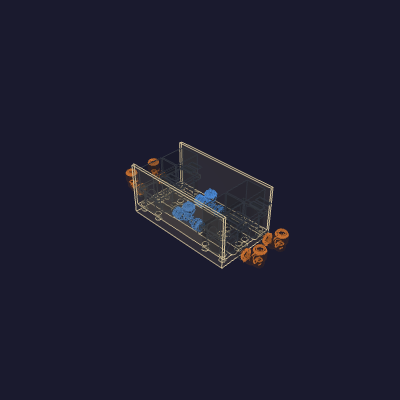
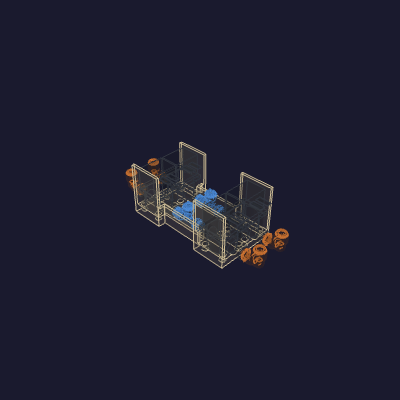
bag-circuit tray: pinch the center like source-select
Apply the source-select treatment to the bag-circuit tray. The two valve
columns keep a full-width floor and full-height ±Y walls (the stacking surface);
the central Tee region pinches in to a narrow bridge that hugs the two Tees, with
short walls that just clear the Tee runs, joined to the columns by short
connecting walls. Floor reduced to follow the walls. Valves aren't tilted here,
so the walls are straight rather than slanted, but the structure mirrors
source-select.

Refactored the shared cradle/groove cuts into _cut_cradles so build_tray
(bib/nozzle, unchanged) and the new dog-bone build_bag_circuit_tray share them.
One solid, 0 mm³ body clashes, all 16 sockets ringed; bib/nozzle trays
byte-identical.

Changed region(s): [[0.39, 0.39, 0.63, 0.63]]

diff --git a/hardware/printed-parts/valve-manifold/bag-circuit-tray/bag_circuit_tray.py b/hardware/printed-parts/valve-manifold/bag-circuit-tray/bag_circuit_tray.py
@@ -141,12 +141,9 @@ def _box(x0, x1, y_half, z0, z1):
     )
 
 
-def build_tray(valve_centers, connectors, plate_x, plate_y_half):
-    """Solid frame plate spanning ``plate_x`` (lo, hi), with a four-socket
-    cradle and port saddle per valve, a groove per connector, and two ±Y
-    stacking walls."""
-    tray = _box(plate_x[0], plate_x[1], plate_y_half, bot_z, top_z)
-
+def _cut_cradles(tray, valve_centers, connectors):
+    """Cut a four-socket cradle and a port saddle per valve, plus a groove per
+    connector, into ``tray``."""
     for vx, vy in valve_centers:
         for sx in (-1.0, 1.0):
             for sy in (-1.0, 1.0):
@@ -173,7 +170,15 @@ def build_tray(valve_centers, connectors, plate_x, plate_y_half):
             cq.Vector(1.0, 0.0, 0.0),
         )
         tray = tray.cut(cq.Workplane(obj=groove))
+    return tray
 
+
+def build_tray(valve_centers, connectors, plate_x, plate_y_half):
+    """Solid frame plate spanning ``plate_x`` (lo, hi), with a four-socket
+    cradle and port saddle per valve, a groove per connector, and two ±Y
+    stacking walls."""
+    tray = _box(plate_x[0], plate_x[1], plate_y_half, bot_z, top_z)
+    tray = _cut_cradles(tray, valve_centers, connectors)
     for sy in (+1.0, -1.0):
         wall = _box(plate_x[0], plate_x[1], wall_thickness / 2.0, bot_z, wall_top_z)
         tray = tray.union(wall.translate((0.0, sy * (plate_y_half - wall_thickness / 2.0), 0.0)))
@@ -186,13 +191,39 @@ def tee_grooves(tee_centers):
     return [(cx, cy, 2.0 * tee_run_half, tee_groove_radius) for cx, cy in tee_centers]
 
 
+# --- Bag-circuit dog-bone: the tray pinches in the center -----------------
+# Full-width floor + full-height walls hug the two valve columns; a narrow
+# central bridge hugs the two Tees between them with short walls that just clear
+# the Tee runs, joined to the columns by short connecting walls.
+bc_x_split = valve_x - valve_pad                       # column/bridge boundary (inner-socket support)
+bc_hug_half_y = row_half + tee_groove_radius + wall_clear + wall_thickness  # bridge half-width
+bc_hug_wall_top_z = port_z + tee_radius + 2.0          # short central walls just clear the Tee runs
+bc_col_inner = bc_x_split - margin                     # columns reach inboard, under the connecting walls
+
+
 def build_bag_circuit_tray():
-    return build_tray(
-        list(valves.values()),
-        tee_grooves(tees.values()),
-        (-plate_half_x, plate_half_x),
-        plate_half_y,
-    )
+    tray = _box(-bc_x_split, bc_x_split, bc_hug_half_y, bot_z, top_z)                 # central Tee bridge
+    tray = tray.union(_box(bc_col_inner, plate_half_x, plate_half_y, bot_z, top_z))   # +X valve column
+    tray = tray.union(_box(-plate_half_x, -bc_col_inner, plate_half_y, bot_z, top_z)) # −X valve column
+    tray = _cut_cradles(tray, list(valves.values()), tee_grooves(tees.values()))
+
+    for sy in (+1.0, -1.0):
+        y_col = sy * (plate_half_y - wall_thickness / 2.0)
+        y_hug = sy * (bc_hug_half_y - wall_thickness / 2.0)
+        # full-height column walls (carry the stack pitch) + short central wall
+        tray = tray.union(_box(bc_col_inner, plate_half_x, wall_thickness / 2.0, bot_z, wall_top_z).translate((0.0, y_col, 0.0)))
+        tray = tray.union(_box(-plate_half_x, -bc_col_inner, wall_thickness / 2.0, bot_z, wall_top_z).translate((0.0, y_col, 0.0)))
+        tray = tray.union(_box(-bc_x_split, bc_x_split, wall_thickness / 2.0, bot_z, bc_hug_wall_top_z).translate((0.0, y_hug, 0.0)))
+        # connecting walls bridge the pinch from each short-wall end to its column wall
+        for sx in (+1.0, -1.0):
+            x0, x1 = sorted((sx * bc_col_inner, sx * bc_x_split))
+            y0, y1 = sorted((sy * (bc_hug_half_y - wall_thickness), sy * plate_half_y))
+            tray = tray.union(
+                cq.Workplane("XY")
+                .box(x1 - x0, y1 - y0, bc_hug_wall_top_z - bot_z, centered=(False, False, False))
+                .translate((x0, y0, bot_z))
+            )
+    return tray
 
 
 def main():

diff --git a/hardware/printed-parts/valve-manifold/bag-circuit-tray/README.md b/hardware/printed-parts/valve-manifold/bag-circuit-tray/README.md
@@ -17,7 +17,8 @@ V-F over V-I on the −X side, V-E over V-H on the +X side. Each row's two valve
 connect **in-line through a Tee** ([reference](/hardware/reference/tee-connector/README.md))
 whose run lies along X, so the inner ports meet the run ports straight-on (no
 jog) with the valves at X = ±[49.57](VALVE_X). Each Tee's **branch rises (+Z)** to its
-bag; the valves' outer ports leave the tray to the pumps.
+bag; the valves' outer ports leave the tray to the pumps, an **elbow** turning
+each +Z up out of the tray.
 
 This module also holds the shared parallel-Tee base (`place_valve`,
 `place_tee`, `build_tray`, common geometry) that the gate-tray variants
@@ -25,15 +26,18 @@ This module also holds the shared parallel-Tee base (`place_valve`,
 they are all-Tee too. Only source-select still uses Y-dividers.
 
 Origin = cell center, Z = 0 the valve mounting plane, ports at Z = [11.3](PORT_Z). The
-six bodies are clash-free.
+six valve/Tee bodies are clash-free.
 
 ## The tray
 
-A frame plate (Z [-3](TRAY_BOT_Z) → [6](TRAY_TOP_Z)), **[137](BAG_PLATE_W) × [74](BAG_PLATE_D) × [63](STACK_PITCH) mm**, with a **solid floor**. Each
-valve drops into four corner sockets and a port saddle along X; each **Tee run
-sets into a groove** cut into the floor at port height (the floor stays solid
-beneath it). Two **side walls** (±Y) rise to Z = [60](WALL_TOP_Z) for a **[63](STACK_PITCH) mm stack
-pitch**; the X-ends stay open for the ports.
+A frame plate (Z [-3](TRAY_BOT_Z) → [6](TRAY_TOP_Z)) that **pinches in the center** — envelope
+**[137](BAG_PLATE_W) × [74](BAG_PLATE_D) × [63](STACK_PITCH) mm**. Full-width floor and full-height **side walls**
+(±Y, to Z = [60](WALL_TOP_Z), the stacking surface) hug the two valve columns; a **narrow
+central bridge** hugs the two Tees between them — each Tee run sets into a
+groove, flanked by short walls that just clear it and joined to the columns by
+short connecting walls. Each valve drops into four corner sockets and a port
+saddle along X. A second tray's floor lands on the column wall tops at a **[63](STACK_PITCH) mm
+stack pitch**; the X-ends stay open for the ports and the outlet elbows.
 
 Generated by `bag_circuit_tray.py` → `bag-circuit-tray.step`;
 `bag_circuit_assembly.py` → `bag-circuit-assembly.step` (tray + valves + Tees
